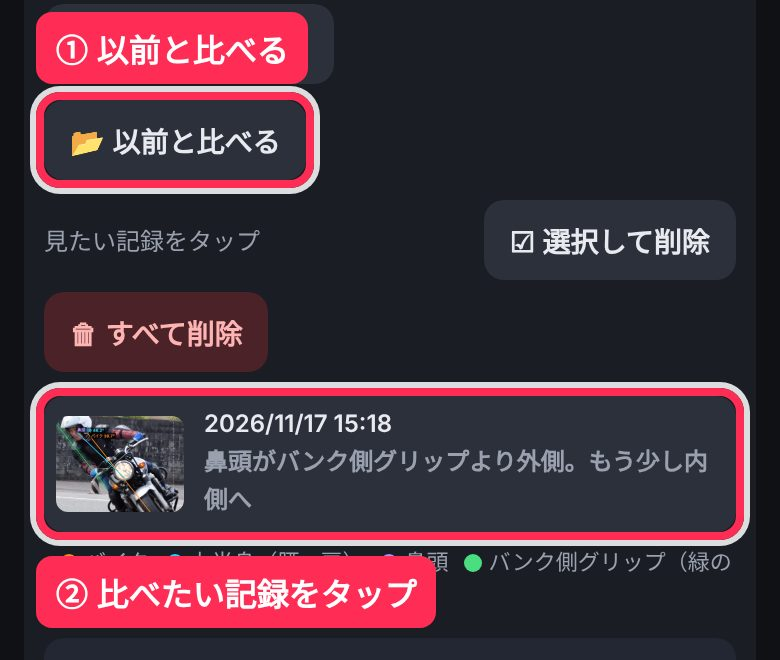
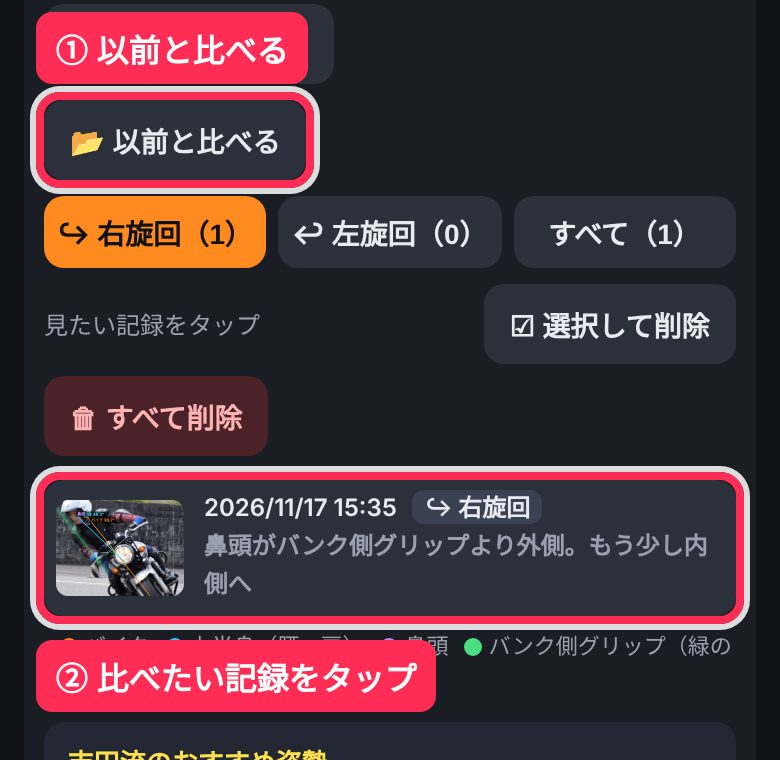
正面の記録を右旋回・左旋回に分けて保存（AIが自動判定・保存前に直せる）、以前と比べるに右・左・すべてのタブ
Claude-Session: https://claude.ai/code/session_011u9JZsvLRrYk3f4MCa327X

Changed region(s): [[0.0308, 0.0, 0.9846, 1.0], [0.6462, 0.2727, 0.9231, 0.4545]]

diff --git a/index.html b/index.html
@@ -63,6 +63,11 @@
   .rec { cursor:pointer; }
   .rec.sel { outline:2px solid var(--ng); }
   .rec .ck { font-size:22px; width:26px; text-align:center; }
+  .turnTabs { display:flex; gap:6px; }
+  .turnTabs button { flex:1; padding:8px 4px; font-size:14px; }
+  .turnTabs button.on, .turnRow button.on { background:var(--bike); color:#111; font-weight:800; }
+  .turnRow { align-items:center; flex-wrap:wrap; }
+  .rec .tt { margin-left:8px; font-size:12px; background:#3a4152; border-radius:6px; padding:1px 6px; }
   .recBar { display:flex; flex-wrap:wrap; align-items:center; gap:6px; position:sticky; top:0; background:var(--panel); padding:2px 0 6px; z-index:1; }
   .recBar .note { flex:1; min-width:120px; }
   button.danger { background:#4a2228; color:#ffb4b4; }
@@ -187,13 +192,14 @@
       <ol>
         <li>角度が決まったら、写真のすぐ下の<b>✅ 角度OK（保存へ）</b>を押します。</li>
         <li>「保存しますか？」で<b>💾 保存する</b>を押したときだけ保存されます。</li>
+        <li>正面の写真は、AIが<b>右旋回・左旋回</b>を自動で選んで保存します。違っていたら保存の前に押して直せます。</li>
       </ol>
       <img class="shot" src="guide/step6-save.jpg" loading="lazy" alt="角度OK → 保存する"><div class="cap">角度OK → 保存する</div>
       <div class="tip">記録は<b>あなたのスマホの中だけ</b>に保存されます。写真がどこかに送られることはありません。</div>
 
       <h4>⑥ 以前の自分と比べる</h4>
       <ol>
-        <li><b>📂 以前と比べる</b>を押して、比べたい記録を選びます。数値の変化が出ます。</li>
+        <li><b>📂 以前と比べる</b>を押して、比べたい記録を選びます。数値の変化が出ます。正面は<b>「右旋回」「左旋回」「すべて」</b>のタブで切り替えられます（最初は今の写真と同じ向き）。</li>
         <li><b>🔁 今回の写真に透かして重ねる</b>をオンにすると、以前の写真がバイクの位置に合わせて重なります。スライダーで濃さを変えられます。</li>
         <li>いらない記録は「☑ 選択して削除」「🗑 すべて削除」で消せます。</li>
       </ol>
@@ -704,10 +710,31 @@ class View {
     this.sec.querySelector(".okBtn").textContent = this.savedOnce ? "✅ 角度OK（変更を保存へ）" : "✅ 角度OK（保存へ）";
     this.sec.querySelector(".saveAsk").style.display = "none";
   }
+  curTurn() {
+    if (!this.spec.turn) return null;
+    if (this.turnSet) return this.turn;
+    return this.last ? this.spec.turn(this.last, this.opt("fromRear")) : null;
+  }
   askSave() {
     const box = this.sec.querySelector(".saveAsk"); box.style.display = "block"; box.innerHTML = "";
     const t = document.createElement("div");
     t.textContent = this.savedOnce ? "変更を保存しますか？（前に保存した記録を上書きします）" : "この写真と角度を保存しますか？";
+    box.append(t);
+    if (this.spec.turn) {   // 右旋回・左旋回（AIの自動判定。違っていたら押して直す）
+      const tr = document.createElement("div"); tr.className = "row turnRow";
+      const lab = document.createElement("span"); lab.className = "note"; lab.textContent = "コーナー：";
+      tr.appendChild(lab);
+      const opts = [["R", "↪ 右旋回"], ["L", "↩ 左旋回"], [null, "直線・なし"]];
+      const paint = () => tr.querySelectorAll("button").forEach((b, i) => b.classList.toggle("on", opts[i][0] === this.curTurn()));
+      for (const [k, txt] of opts) {
+        const b = document.createElement("button"); b.textContent = txt;
+        b.addEventListener("click", () => { this.turn = k; this.turnSet = true; paint(); });
+        tr.appendChild(b);
+      }
+      const auto = document.createElement("div"); auto.className = "note";
+      auto.textContent = this.turnSet ? "" : "AIがバイクの傾きから自動で選んでいます。違っていたら押して直してください。";
+      box.append(tr, auto); paint();
+    }
     const row = document.createElement("div"); row.className = "row";
     const yes = document.createElement("button"); yes.className = "primaryBtn"; yes.textContent = "💾 保存する";
     const no = document.createElement("button"); no.textContent = "保存しない";
@@ -722,7 +749,7 @@ class View {
       else this.markDirty();
     });
     no.addEventListener("click", () => { box.style.display = "none"; this.status("保存しませんでした。点を直してから、もう一度「✅ 角度OK」を押せます。"); });
-    row.append(yes, no); box.append(t, row);
+    row.append(yes, no); box.append(row);
     box.scrollIntoView({ behavior: "smooth", block: "nearest" });
   }
   async record() {
@@ -737,7 +764,7 @@ class View {
     rc.width = Math.round(this.work.width * kr); rc.height = Math.round(this.work.height * kr);
     rc.getContext("2d").drawImage(this.work, 0, 0, rc.width, rc.height);
     const raw = rc.toDataURL("image/jpeg", .85), pts = normPts(this.pts, this.work.width, this.work.height);
-    const rec = { id: this.recId, view: this.spec.name, img, raw, pts, opts: { fromRear: this.opt("fromRear") }, verdict: this.last.verdict, nums: this.spec.nums(this.last) };
+    const rec = { id: this.recId, view: this.spec.name, img, raw, pts, opts: { fromRear: this.opt("fromRear") }, verdict: this.last.verdict, nums: this.spec.nums(this.last), turn: this.curTurn() };
     try { await Store.add(rec); this.status(Store.db ? `💾 ${fmtDate(rec.id)} の記録としてこのiPhoneに保存しました。` : "💾 一時保存しました（この画面を閉じると消えます）。"); }
     catch (e) { console.warn(e); this.status("⚠ 保存できませんでした。"); return false; }
     if (this.sec.querySelector(".recList").style.display !== "none") this.renderList();
@@ -745,13 +772,27 @@ class View {
   }
   async toggleList() {
     const el = this.sec.querySelector(".recList");
-    if (el.style.display === "none") { el.style.display = "flex"; await this.renderList(); }
+    if (el.style.display === "none") { el.style.display = "flex"; this.listTurn = this.curTurn() || "all"; this.selMode = false; await this.renderList(); }
     else el.style.display = "none";
   }
   async renderList() {
     const el = this.sec.querySelector(".recList"); el.innerHTML = "";
-    const recs = (await Store.list(this.spec.name)).filter(r => r.id !== this.recId);
-    if (!recs.length) { this.selMode = false; el.innerHTML = '<div class="note">まだ以前の記録がありません。「✅ 角度OK」→「保存する」で保存した結果が、ここに並びます。</div>'; return; }
+    const all = (await Store.list(this.spec.name)).filter(r => r.id !== this.recId);
+    if (!all.length) { this.selMode = false; el.innerHTML = '<div class="note">まだ以前の記録がありません。「✅ 角度OK」→「保存する」で保存した結果が、ここに並びます。</div>'; return; }
+    let recs = all;
+    if (this.spec.turn) {   // 右旋回・左旋回・すべて のタブ
+      const lt = this.listTurn || "all";
+      recs = lt === "all" ? all : all.filter(r => r.turn === lt);
+      const tabs = document.createElement("div"); tabs.className = "turnTabs";
+      for (const [k, txt] of [["R", "↪ 右旋回"], ["L", "↩ 左旋回"], ["all", "すべて"]]) {
+        const n = k === "all" ? all.length : all.filter(r => r.turn === k).length;
+        const b = document.createElement("button"); b.textContent = `${txt}（${n}）`; if (k === lt) b.className = "on";
+        b.addEventListener("click", () => { this.listTurn = k; this.selMode = false; if (this.sel) this.sel.clear(); this.renderList(); });
+        tabs.appendChild(b);
+      }
+      el.appendChild(tabs);
+      if (!recs.length) { const n = document.createElement("div"); n.className = "note"; n.textContent = (lt === "R" ? "右旋回" : "左旋回") + "の記録はまだありません。"; el.appendChild(n); return; }
+    }
     if (!this.sel) this.sel = new Set();
     for (const id of [...this.sel]) if (!recs.some(r => r.id === id)) this.sel.delete(id);
     // toolbar
@@ -760,7 +801,7 @@ class View {
     if (!this.selMode) {
       const hint = document.createElement("span"); hint.className = "note"; hint.textContent = "見たい記録をタップ"; bar.appendChild(hint);
       mk("☑ 選択して削除", "", () => { this.selMode = true; this.sel.clear(); this.renderList(); });
-      mk("🗑 すべて削除", "danger", () => this.askDelete(recs.map(r => r.id), `以前の記録 ${recs.length}件をすべて削除します。よろしいですか？`));
+      mk(recs.length < all.length ? "🗑 この一覧を削除" : "🗑 すべて削除", "danger", () => this.askDelete(recs.map(r => r.id), `${recs.length < all.length ? "この一覧の" : "以前の"}記録 ${recs.length}件をすべて削除します。よろしいですか？`));
     } else {
       mk(this.sel.size === recs.length ? "選択を外す" : "すべて選ぶ", "", () => {
         if (this.sel.size === recs.length) this.sel.clear(); else recs.forEach(r => this.sel.add(r.id));
@@ -776,7 +817,7 @@ class View {
       const row = document.createElement("div"); row.className = "rec" + (this.selMode && this.sel.has(r.id) ? " sel" : "");
       if (this.selMode) { const ck = document.createElement("span"); ck.className = "ck"; ck.textContent = this.sel.has(r.id) ? "☑" : "☐"; row.appendChild(ck); }
       const im = document.createElement("img"); im.src = r.img;
-      const b = document.createElement("div"); b.className = "rt"; b.innerHTML = `${fmtDate(r.id)}<br><span class="note"></span>`;
+      const b = document.createElement("div"); b.className = "rt"; b.innerHTML = `${fmtDate(r.id)}${this.spec.turn ? `<span class="tt">${r.turn === "R" ? "↪ 右旋回" : r.turn === "L" ? "↩ 左旋回" : "向きなし"}</span>` : ""}<br><span class="note"></span>`;
       b.querySelector(".note").textContent = r.verdict;
       row.append(im, b);
       row.addEventListener("click", () => {
@@ -945,7 +986,7 @@ class View {
       this.work.height = this.cv.height = Math.round(sh * k);
       this.wctx.drawImage(src, 0, 0, this.work.width, this.work.height);
       if (this.prev) this.hidePrev();
-      this.loaded = true; this.pts = null; this.recId = Date.now(); this.savedOnce = false; this.dirty = false;
+      this.loaded = true; this.pts = null; this.recId = Date.now(); this.savedOnce = false; this.dirty = false; this.turnSet = false; this.turn = null;
       this.sec.querySelector(".okRow").style.display = "none"; this.sec.querySelector(".saveAsk").style.display = "none"; updateSave();
       this.sec.querySelector(".placeholder").style.display = "none";
       this.cv.style.display = "block";
@@ -1097,6 +1138,8 @@ function bikeAxisFromMask(seg, idx) {
 
 const FRONT = {
   name: "front",
+  // 右旋回／左旋回（ライダーから見た向き）。ほぼ直立なら null
+  turn: (m, rear) => !m || Math.abs(m.bike) < 3 ? null : ((m.bike > 0) === !!rear ? "R" : "L"),
   nums: m => ({ "鼻頭のずれ（グリップ何個分・＋内側）": [m.d, "個"], "バンク角": [Math.abs(m.bike), "°"],
                 "上半身の角度": [Math.abs(m.body), "°"], "上半身とバイクの差（＋内側）": [m.diffIn, "°"] }),
   sampleSrc: "sample-front.jpg", anchors: ["bikeB", "bikeT"], mirrorCheck: "lean",
